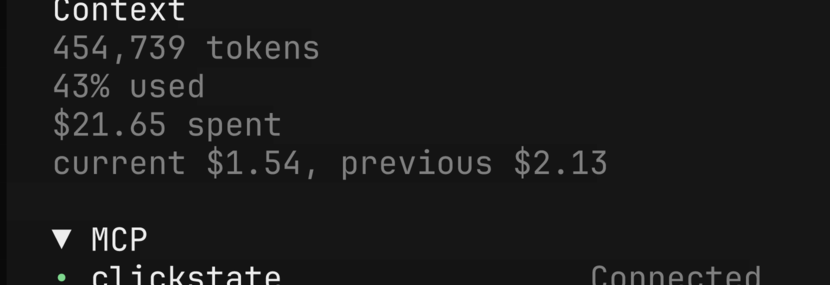
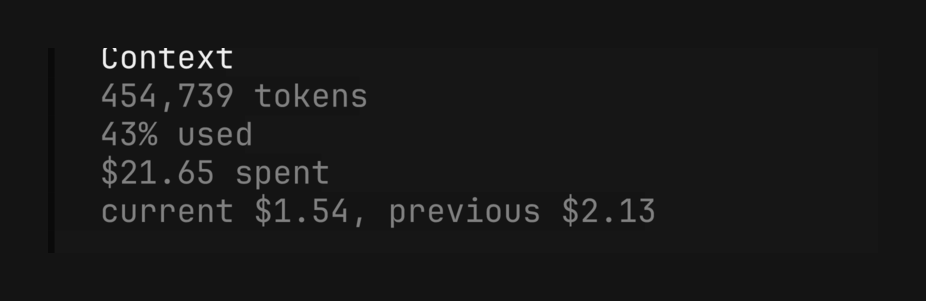
[opencode-prs] align PR metadata below titles (#12)
* [opencode-prs] use aligned two-line PR rows

* [opencode-prs] simplify marquee cycle

* improve screenshot padding

diff --git a/packages/prs/src/tui.tsx b/packages/prs/src/tui.tsx
@@ -82,6 +82,7 @@ function mergePullRequests(
 
 function PullRequestRow(props: {
   pr: PullRequest
+  numberWidth: number
   subdued: string | RGBA
   link: string | RGBA
   draft: string | RGBA
@@ -100,7 +101,18 @@ function PullRequestRow(props: {
     setOffset(0)
     if (!hovered() || props.pr.title.length <= width()) return
     delay = setTimeout(() => {
-      interval = setInterval(() => setOffset((value) => value + 1), MARQUEE_STEP_MS)
+      const cycleLength = props.pr.title.length + 3
+      let step = 0
+      interval = setInterval(() => {
+        step++
+        if (step < cycleLength) {
+          setOffset(step)
+          return
+        }
+        clearInterval(interval)
+        interval = undefined
+        setOffset(0)
+      }, MARQUEE_STEP_MS)
     }, MARQUEE_DELAY_MS)
   })
   onCleanup(() => {
@@ -115,17 +127,20 @@ function PullRequestRow(props: {
 
   return (
     <box
-      flexDirection="row"
+      flexDirection="column"
       minWidth={0}
       onMouseOver={() => setHovered(true)}
       onMouseOut={() => setHovered(false)}
     >
-      <text fg={props.subdued} flexShrink={0}>• #{props.pr.number} </text>
-      <box flexGrow={1} minWidth={0} overflow="hidden" onSizeChange={function () { setWidth(this.width) }}>
-        <text fg={props.link} wrapMode="none"><a href={props.pr.url}>{marquee(props.pr.title, width(), offset())}</a></text>
+      <box flexDirection="row" minWidth={0}>
+        <text fg={props.subdued} flexShrink={0}>• </text>
+        <box flexGrow={1} minWidth={0} overflow="hidden" onSizeChange={function () { setWidth(this.width) }}>
+          <text fg={props.link} wrapMode="none"><a href={props.pr.url}>{marquee(props.pr.title, width(), offset())}</a></text>
+        </box>
       </box>
-      <text fg={statusColor()} flexShrink={0}>
-        {" "}{pullRequestStatus(props.pr)}
+      <text fg={props.subdued} marginLeft={2}>
+        #{String(props.pr.number).padStart(props.numberWidth)}
+        <span style={{ fg: statusColor() }}> · {pullRequestStatus(props.pr)}</span>
       </text>
     </box>
   )
@@ -208,6 +223,7 @@ function PullRequests(props: {
   const [prs, setPrs] = createSignal<PullRequest[]>(cache.prs)
   const [unavailable, setUnavailable] = createSignal(cache.unavailable)
   const visiblePrs = () => prs().slice(-MAX_VISIBLE_PRS)
+  const numberWidth = () => Math.max(1, ...visiblePrs().map((pr) => String(pr.number).length))
   const hiddenCount = () => prs().length - visiblePrs().length
   let mounted = true
   let observedRefsKey = pullRequestRefsKey(props.refs())
@@ -264,6 +280,7 @@ function PullRequests(props: {
         <For each={visiblePrs()}>{(pr) => (
           <PullRequestRow
             pr={pr}
+            numberWidth={numberWidth()}
             subdued={props.subdued}
             link={props.link}
             draft={props.draft}

diff --git a/packages/prs/README.md b/packages/prs/README.md
@@ -4,7 +4,7 @@
 
 ![Pull request titles scrolling on hover in the OpenCode sidebar](../../assets/prs-hover.gif)
 
-The sidebar section is collapsible. Each compact row shows a muted PR number, linked title, and colored draft, open, or merged status. Hover a clipped title to scroll through its full text.
+The sidebar section is collapsible. Each pull request uses a full-width linked title with its muted number and colored status below. Hover a clipped title to scroll through its full text once.
 
 ## Install
 

diff --git a/.changeset/quiet-prs-list.md b/.changeset/quiet-prs-list.md
@@ -1,0 +1,5 @@
+---
+"opencode-prs": patch
+---
+
+Give PR titles a full row, align metadata below, and scroll long titles once per hover.
